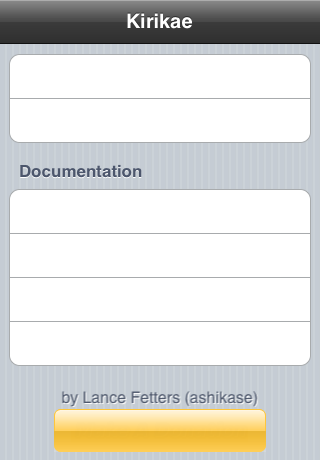
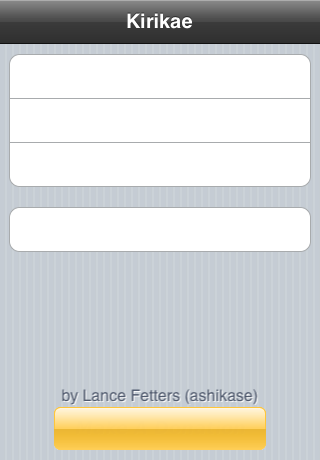
Prefs: Updated default image and donation button

diff --git a/PrefsApp/RootController.m b/PrefsApp/RootController.m
@@ -3,7 +3,7 @@
  * Type: iPhone OS SpringBoard extension (MobileSubstrate-based)
  * Description: a task manager/switcher for iPhoneOS
  * Author: Lance Fetters (aka. ashikase)
- * Last-modified: 2009-09-21 23:02:56
+ * Last-modified: 2009-09-21 23:03:28
  */
 
 /**
@@ -82,7 +82,7 @@
 - (void)viewDidLoad
 {
     // Create and add footer view
-    UIView *view = [[UIView alloc] initWithFrame:CGRectMake(0, 0, 320.0f, 190.0f)];
+    UIView *view = [[UIView alloc] initWithFrame:CGRectMake(0, 0, 320.0f, 188.0f)];
 
     // Donation button
     UIButton *button = [UIButton buttonWithType:UIButtonTypeCustom];
